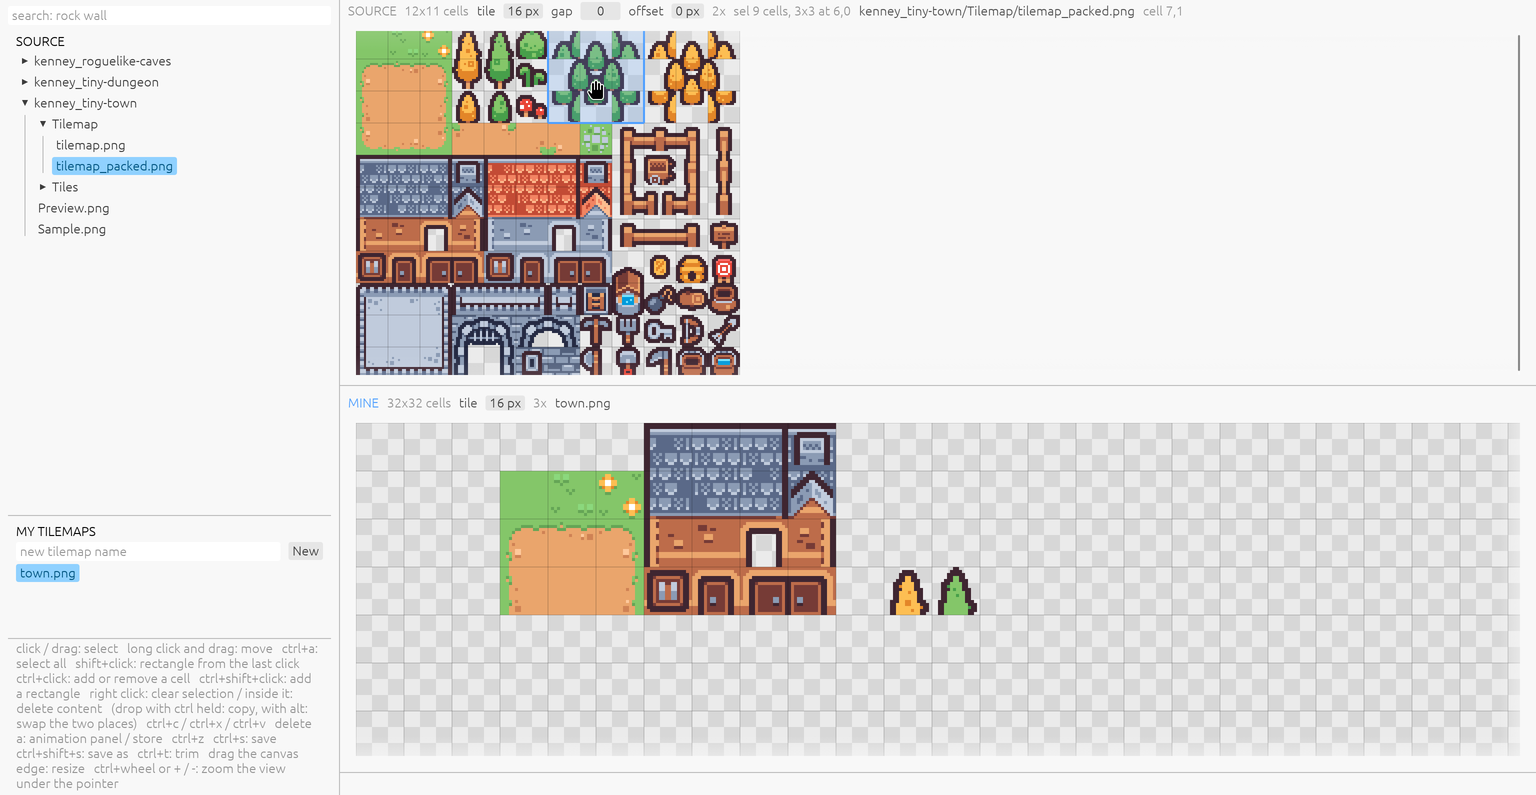
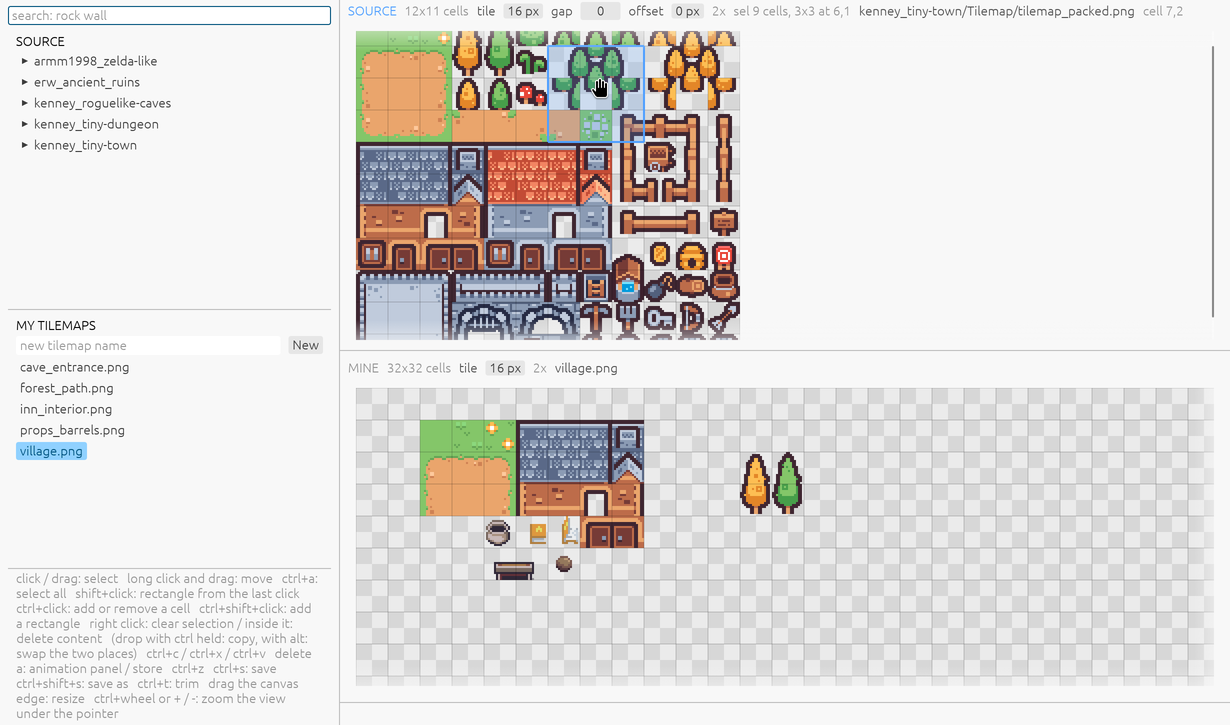
Show the working loop, and name the window Tilepicky
The moving picture now walks the loop the tool exists for: a tilemap of your
own open below, the search box to find a pack, a pick from one sheet, then
another pack, then a save. The window is narrower, so both panels have a
better shape.

Claude-Session: https://claude.ai/code/session_019a9dot3HTFGTuAiBgZ8hZ2

diff --git a/src/main.rs b/src/main.rs
@@ -1823,7 +1823,7 @@ fn main() -> eframe::Result {
     let options = eframe::NativeOptions {
         viewport: egui::ViewportBuilder::default()
             .with_inner_size([1500.0, 950.0])
-            .with_title("Tilepick")
+            .with_title("Tilepicky")
             .with_icon(icon)
             .with_app_id("tilepick"),
         ..Default::default()

diff --git a/README.md b/README.md
@@ -5,11 +5,13 @@ copy cells into tilemaps of your own. Each sheet has its own grid.
 
 <https://github.com/spookysys/tilepick>
 
-![Tiles are selected in a sheet and carried into a tilemap](media/demo.gif)
+![A tilemap of your own is built from two packs, found through the search box](media/demo.gif)
 
-Select cells in a sheet, hold the button on them until they lift, and carry
-them into your own tilemap. The sheets in the pictures are from
-[Kenney](https://kenney.nl), who puts them in the public domain (CC0).
+That is the loop: open a tilemap of your own, search the packs for what the
+map needs, select the cells, hold the button until they lift, and carry them
+over. The sheets in the pictures are from [Kenney](https://kenney.nl) and
+from [ArMM1998](https://opengameart.org/content/zelda-like-tilesets-and-sprites),
+both in the public domain (CC0).
 
 ## Run
 
